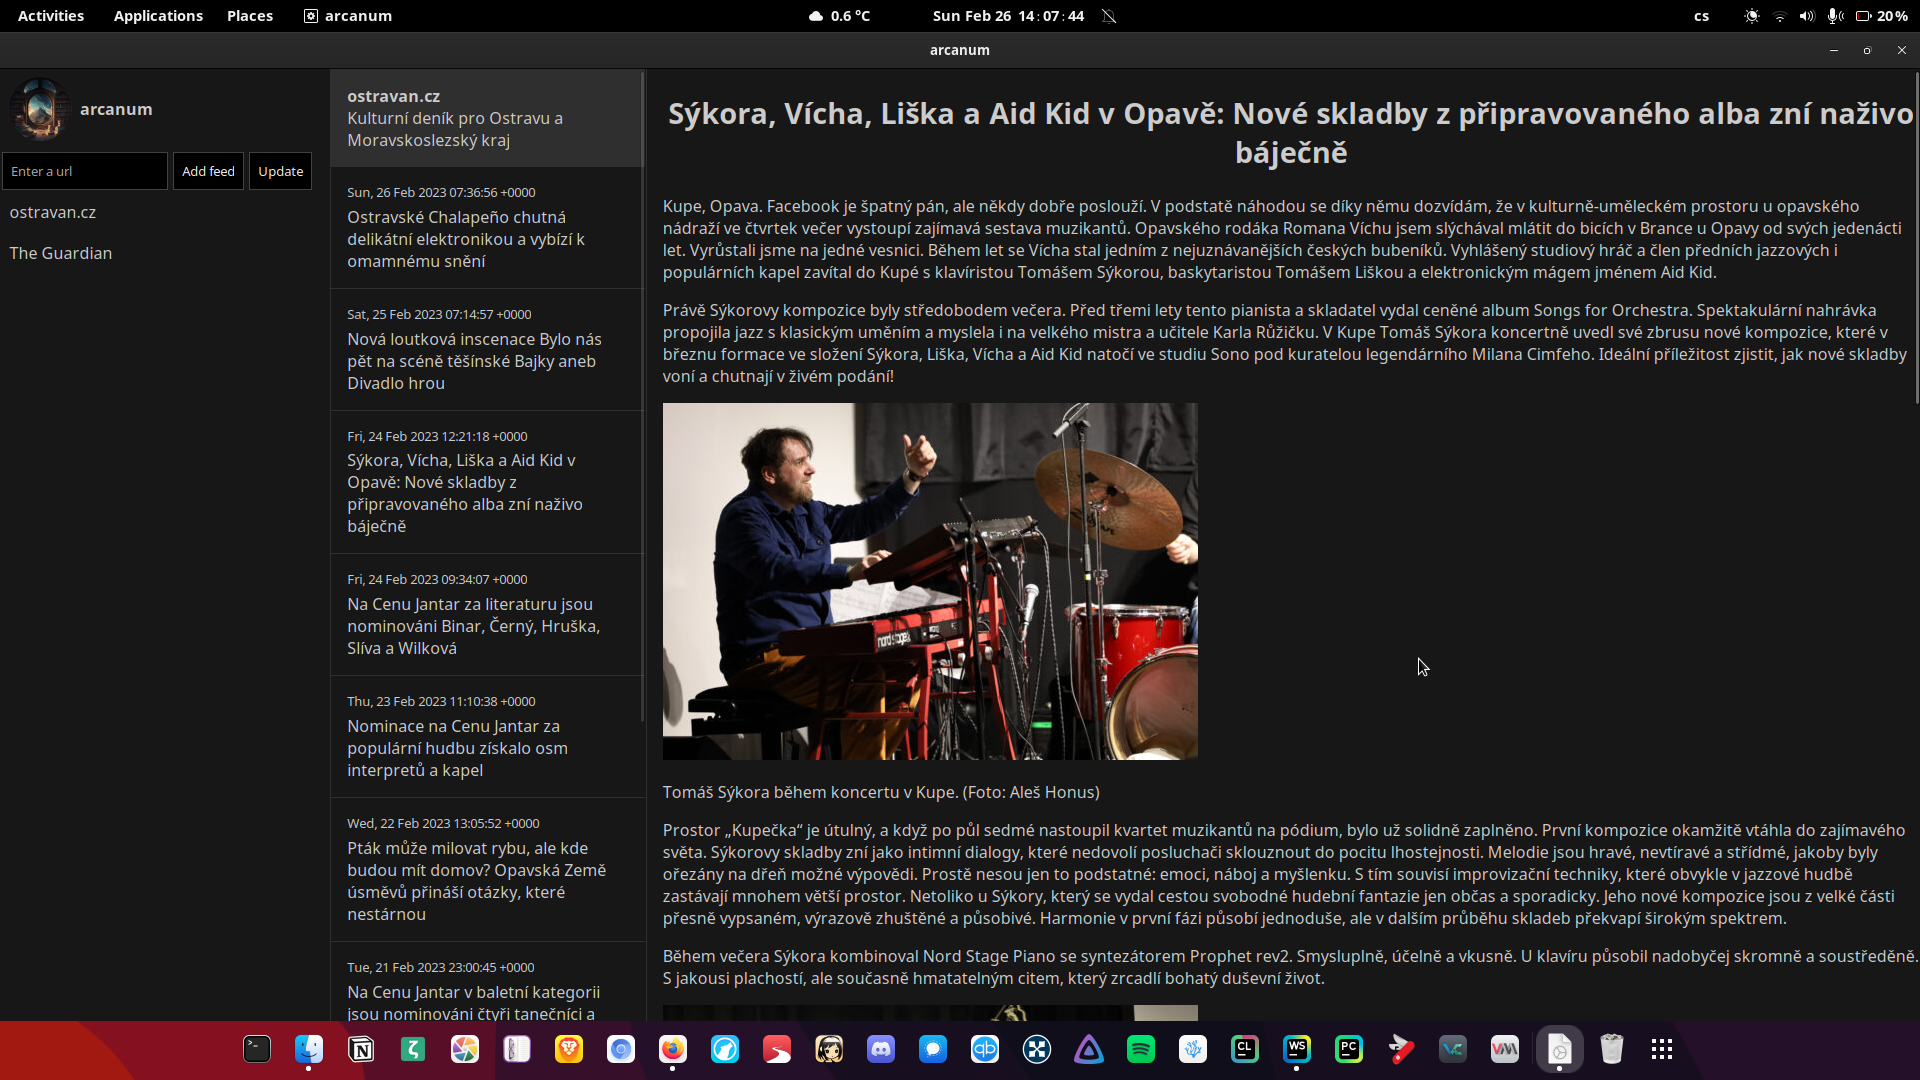
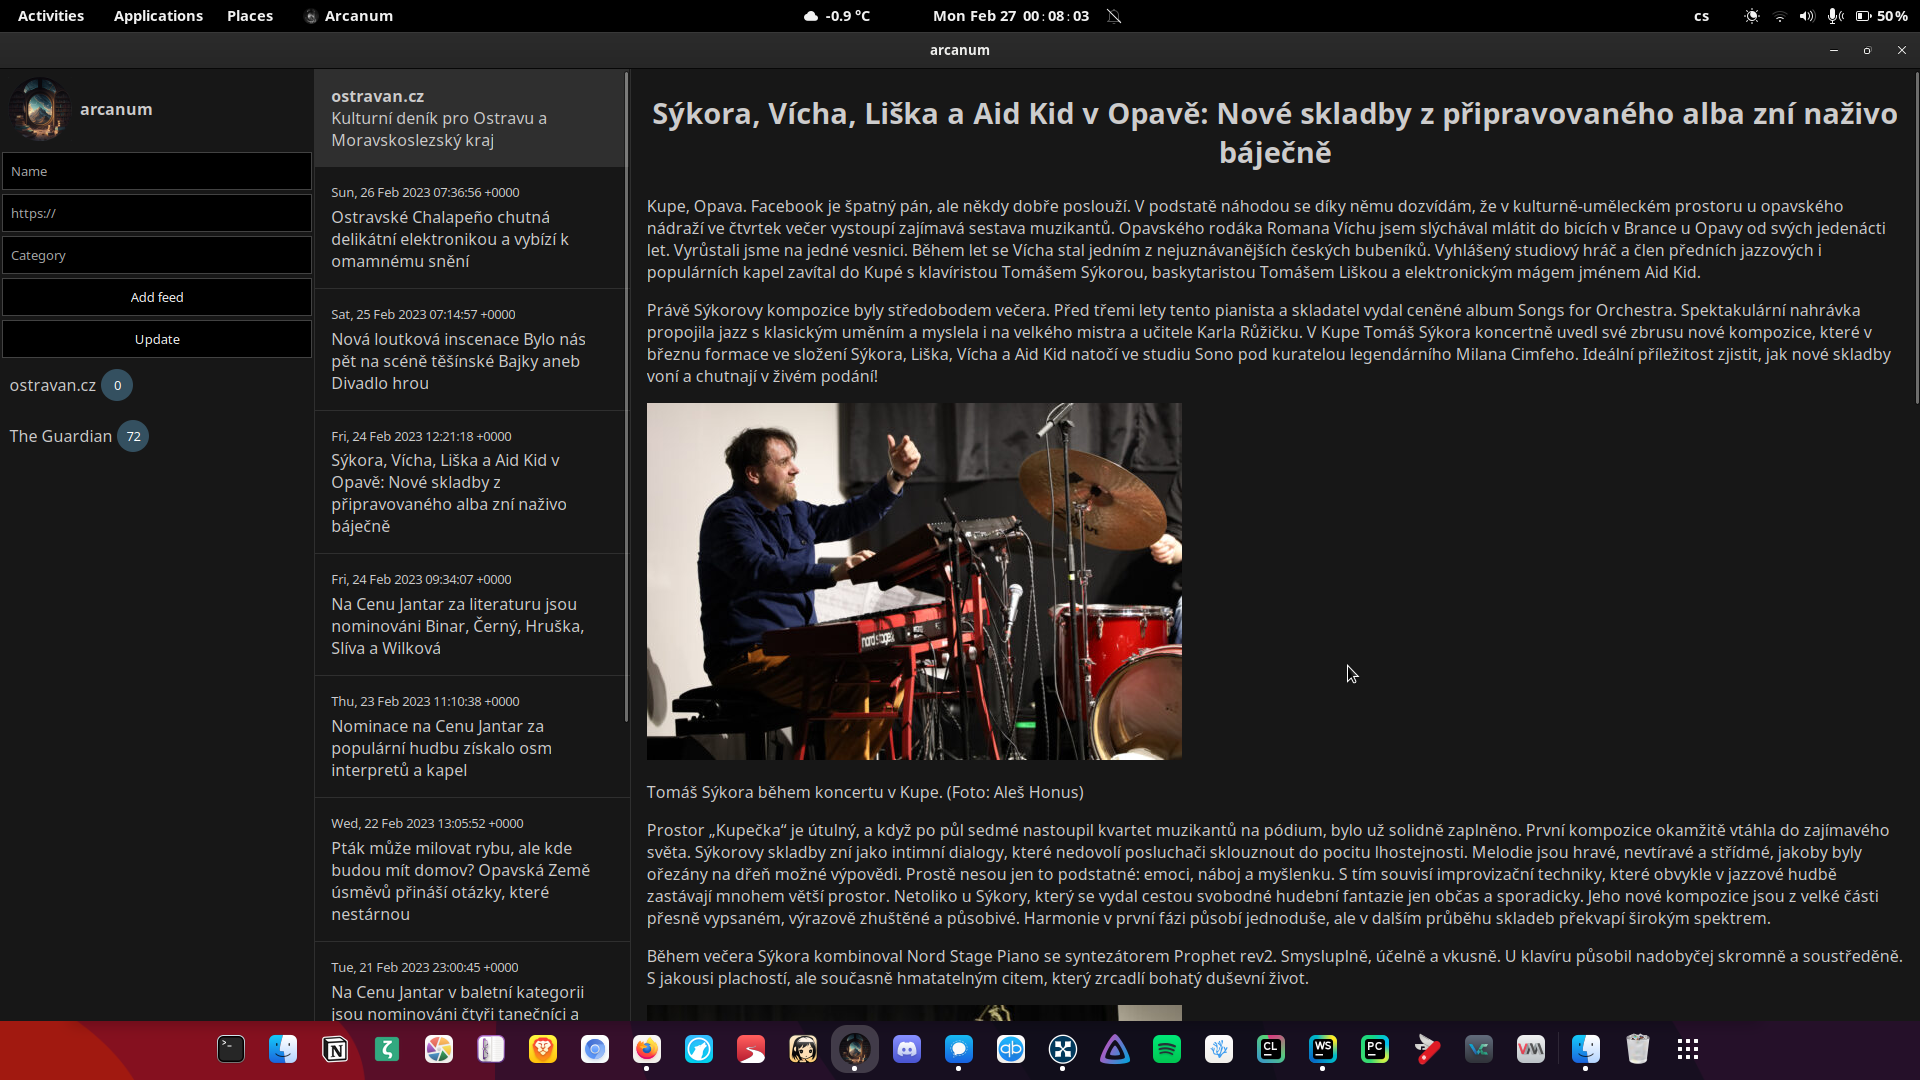
read count, styling fixes

diff --git a/src/lib/Home.svelte b/src/lib/Home.svelte
@@ -2,14 +2,21 @@
   import { invoke } from "@tauri-apps/api/tauri"
 
   let name = "";
+  let url = "";
+  let category = "";
+
   let feeds = [];
   let currentFeed = {
     title: "",
     description: "",
+    read: [],
   }
   let feedBody = {};
   let postBody = "";
   let postTitle = "";
+
+  let __url__ = "";
+  let __guid__ = "";
 
   feed();
 
@@ -23,18 +30,31 @@
       if (feeds[i].filename === fileName) {
         currentFeed.description = feeds[i].feed.description;
         currentFeed.title = feeds[i].feed.title;
+        currentFeed.read = feeds[i].read;
         feedBody = feeds[i].feed.items;
+        __url__ = feeds[i].url;
         break;
       }
     }
   }
   async function renderPost(value){
+    __guid__ = value.guid.value;
     postBody = "";
     if (value.description !== null) postBody = value.description;
     if (value.content !== null) postBody = value.content;
     if (postBody === "") postBody
             = "The post" + value.title + "has no content. Please open in the browser to view the post.";
     postTitle = value.title;
+    console.log(value);
+    console.log(__url__, __guid__, "mark_read");
+    let __feeds__ = await invoke("mark_read", { url:__url__, guid:__guid__ });
+    feeds = __feeds__;
+    for (let i = 0; i < feeds.length; i++) {
+      if (feeds[i].url === __url__) {
+        currentFeed.read = feeds[i].read;
+        break;
+      }
+    }
   }
 </script>
 <div class="layout">
@@ -43,8 +63,10 @@
       <img src="icon.png">
       <h4>arcanum</h4>
     </div>
-    <div>
-      <input id="greet-input" placeholder="Enter a url" bind:value={name} />
+    <div class="adding">
+      <input placeholder="Name" bind:value={name} />
+      <input placeholder="https://" bind:value={url} />
+        <input placeholder="Category" bind:value={category} />
       <button on:click={feed}>
         Add feed
       </button>
@@ -52,7 +74,10 @@
     </div>
     {#each feeds as feed}
       <div on:click={loadFeed(feed.filename)} class="feed">
-        {feed.feed.title}
+        <p>{feed.feed.title}</p>
+        <span class="count">
+          {feed.feed.items.length - feed.read.length}
+        </span>
       </div>
     {/each}
   </div>
@@ -64,7 +89,11 @@
       </div>
     {/if}
     {#each Object.entries(feedBody) as [key, value]}
-      <div on:click={renderPost(value)} class="entry">
+      <div on:click={renderPost(value)}
+           class="entry">
+        {#if !currentFeed.read.includes(value.guid.value)}
+          <span class="new"></span>
+        {/if}
           <div class="header">
             {value.pub_date}
           </div>

diff --git a/src/style.sass b/src/style.sass
@@ -24,12 +24,30 @@ div.layout
     background: #171717
     height: 100vh
     overflow-y: scroll
-    div
+    div.adding
       display: flex
-      flex-direction: row
+      flex-direction: column
       justify-content: space-between
     div.feed
       cursor: pointer
+      display: flex
+      flex-direction: row
+      align-items: center
+      p
+        font-size: 1rem
+        margin: 0
+        padding: 0
+      span.count
+        width: 2rem
+        height: 2rem
+        display: flex
+        justify-content: center
+        align-items: center
+        border-radius: 50%
+        font-size: .8rem
+        background-color: #345060
+        margin-left: .3rem
+        color: white
       &:hover
         background: #2f2f2f
   div.center
@@ -39,11 +57,12 @@ div.layout
     overflow-y: scroll
     display: flex
     flex-direction: column
-    margin: 0 1rem
+    margin: 0
     border-left: 1px solid $border-color
     border-right: 1px solid $border-color
     div.entry
       display: flex
+      position: relative
       flex-direction: column
       padding: 1rem
       cursor: pointer
@@ -51,6 +70,21 @@ div.layout
       border-bottom: 1px solid $border-color
       div.header
         font-size: .8rem
+      span.new
+        content: ""
+        display: inline-block
+        position: absolute
+        top: .5rem
+        right: .5rem
+        z-index: 10
+        width: .5rem
+        height: .5rem
+        background: #326184
+        border-radius: 50%
+        margin-right: .3rem
+      &.active
+        span.new
+          display: none
       &:hover
         background: #2f2f2f
     div.meta-head
@@ -63,6 +97,7 @@ div.layout
     background: #171717
     height: 100vh
     overflow-y: scroll
+    padding: 0 1rem
     h2.title
       text-align: center
       font-size: 1.8rem

diff --git a/src/Hidden.svelte b/src/Hidden.svelte
@@ -1,0 +1,20 @@
+<script>
+    import { createEventDispatcher } from 'svelte';
+
+    let shown = false;
+
+    let dispatch = createEventDispatcher();
+
+    export function show() {
+        shown = !shown;
+        dispatch('show', shown);
+    }
+</script>
+
+<svelte:options accessors={true}/>
+
+<button on:click={show}>Child's button</button>
+
+{#if shown}
+    <slot/>
+{/if}

diff --git a/src-tauri/src/routes/rss.rs b/src-tauri/src/routes/rss.rs
@@ -2,6 +2,9 @@ use rss::Channel;
 use std::error::Error;
 use std::path::Path;
 use crate::routes::parser;
+use std::io::{BufRead, BufReader, Seek, SeekFrom, Write};
+use std::fs::{File, OpenOptions};
+use tauri::utils::config::parse::read_from;
 
 async fn obtain_feed(source: &str) -> Result<Channel, Box<dyn Error>> {
     let content = reqwest::get(source)
@@ -18,6 +21,7 @@ pub struct FeedMeta {
     pub url: String,
     pub filename: String,
     pub feed: Channel,
+    pub read: Vec<String>,
 }
 
 impl FeedMeta {
@@ -28,8 +32,14 @@ impl FeedMeta {
             .replace(":", "_")
             .replace(".", "_");
 
+        let path = format!("../feeds/{}", filename);
+        match std::fs::create_dir_all(path){
+            Ok(_) => println!("Created dir"),
+            Err(_) => println!("Dir already exists"),
+        }
+
         // check if file exists
-        let filename = format!("../feeds/{}", filename);
+        let filename = format!("../feeds/{}/feed.xml", filename);
         println!("Filename: {}", filename);
         let path = Path::new(filename.as_str());
         if !path.exists() {
@@ -40,7 +50,8 @@ impl FeedMeta {
         FeedMeta {
             url: url.to_string(),
             filename,
-            feed
+            feed,
+            read: Vec::new(),
         }
     }
     fn load() -> Vec<FeedMeta> {
@@ -64,8 +75,20 @@ impl FeedMeta {
             // error here.
             let record = result.unwrap();
             assert_eq!(record.len(), 3);
-            feeds.push(FeedMeta::new(record.get(0).unwrap()));
+            let mut meta = FeedMeta::new(record.get(0).unwrap());
             println!("{:?}", record);
+
+            let logFilename = format!("{}.log", meta.filename.clone());
+            let log = FeedMeta::read_log(logFilename.as_str());
+            match log {
+                Ok(log) => {
+                    meta.read = log;
+                }
+                Err(_) => {
+                    println!("Error reading log");
+                }
+            }
+            feeds.push(meta);
         }
 
         return feeds;
@@ -89,6 +112,62 @@ impl FeedMeta {
         writer.flush().expect("Failed to flush writer");
         return feeds;
     }
+    fn read_log(filename: &str) -> Result<Vec<String>, std::io::Error> {
+        let file = OpenOptions::new()
+            .read(true)
+            .open(filename)?;
+        let reader = BufReader::new(file);
+        let mut lines = Vec::new();
+        for line in reader.lines() {
+            lines.push(line?);
+        }
+        Ok(lines)
+    }
+    // take guid and save into lof of read articles
+    fn modify_file(filename: &str, adding: &str) -> Result<(), std::io::Error> {
+        // Open the file for reading or create it if it doesn't exist
+        let mut file = OpenOptions::new()
+            .read(true)
+            .write(true)
+            .create(true)
+            .open(filename)?;
+
+        // Read the file contents line by line into a vector
+        let reader = BufReader::new(&file);
+        let mut lines = reader.lines().collect::<Result<Vec<String>, _>>()?;
+
+        // Add the new string to the vector
+        lines.push(String::from(adding));
+        lines.sort_by(|a, b| a.cmp(&b));
+        lines.dedup_by(|a, b| a == b);
+
+        // limit size to 200
+        if lines.len() > 200 {
+            lines = lines[lines.len()-200..].to_vec();
+        }
+
+        // Truncate the file and write the updated vector back to it
+        file.set_len(0)?;
+        file.seek(SeekFrom::Start(0))?;
+        let mut writer = std::io::BufWriter::new(&file);
+        for line in lines {
+            writer.write(line.as_bytes())?;
+            writer.write(b"\n")?;
+        }
+        writer.flush().unwrap();
+
+        Ok(())
+    }
+}
+
+pub fn mark_read(url: &str, guid: &str) {
+    let filename = url
+        .replace("https://", "")
+          .replace("/", "_")
+        .replace(":", "_")
+        .replace(".", "_");
+    let filename = format!("../feeds/{}/feed.xml.log", filename);
+    FeedMeta::modify_file(filename.as_str(), guid).unwrap();
 }
 
 pub fn main(source: &str) -> Option<Vec<FeedMeta>> {
@@ -97,10 +176,13 @@ pub fn main(source: &str) -> Option<Vec<FeedMeta>> {
         Err(_) => println!("Dir already exists"),
     }
 
+    // first run returns empty vec
     if source == "" {
         let feeds = FeedMeta::load();
         return Some(feeds);
     }
+    println!("here");
+
     let runtime = tokio::runtime::Runtime::new().unwrap();
 
     match runtime.block_on(obtain_feed(source)) {

diff --git a/src-tauri/src/main.rs b/src-tauri/src/main.rs
@@ -26,10 +26,21 @@ fn feed(_name: &str) -> Result<Vec<FeedMeta>, String> {
     }
 }
 
+#[tauri::command]
+fn mark_read(url: &str, guid: &str) -> Result<Vec<FeedMeta>, String> {
+    println!("Marking {} as read", guid);
+    routes::rss::mark_read(url, guid);
+    let data = routes::rss::main("");
+    match data {
+        Some(feeds) => Ok(feeds.clone()),
+        _ => Err("Failed to parse the feed. Please verify the URL is correct.".to_string()),
+    }
+}
+
 fn main() {
     //rss::main()
     tauri::Builder::default()
-        .invoke_handler(tauri::generate_handler![greet, feed])
+        .invoke_handler(tauri::generate_handler![greet, feed, mark_read])
         .run(tauri::generate_context!())
         .expect("error while running tauri application");
 }
